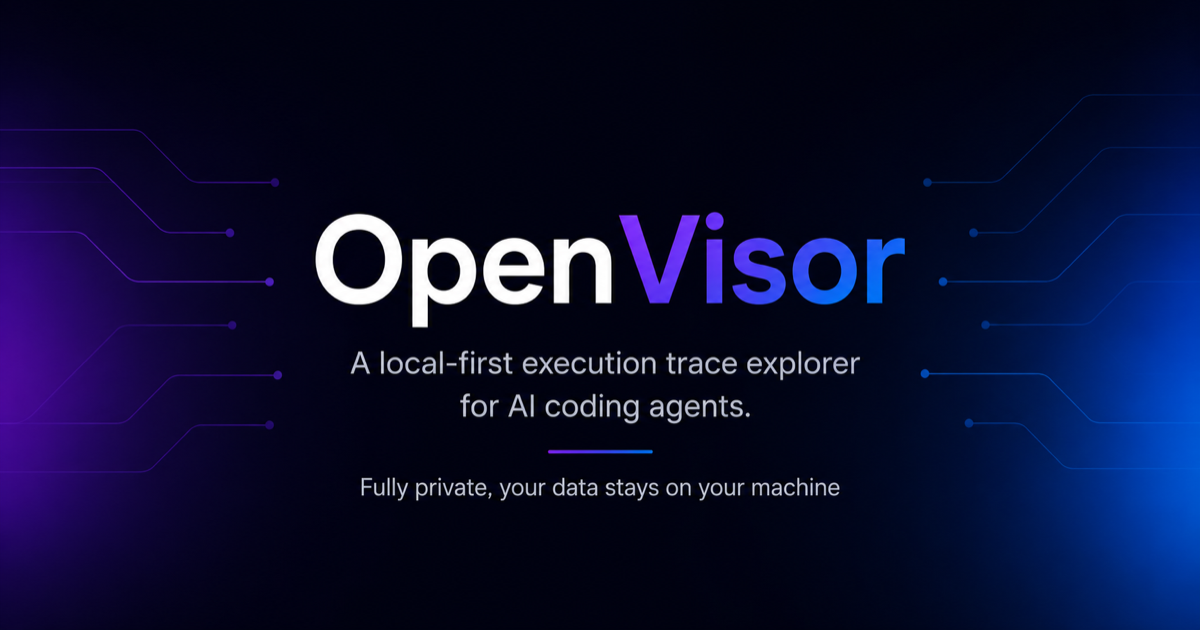
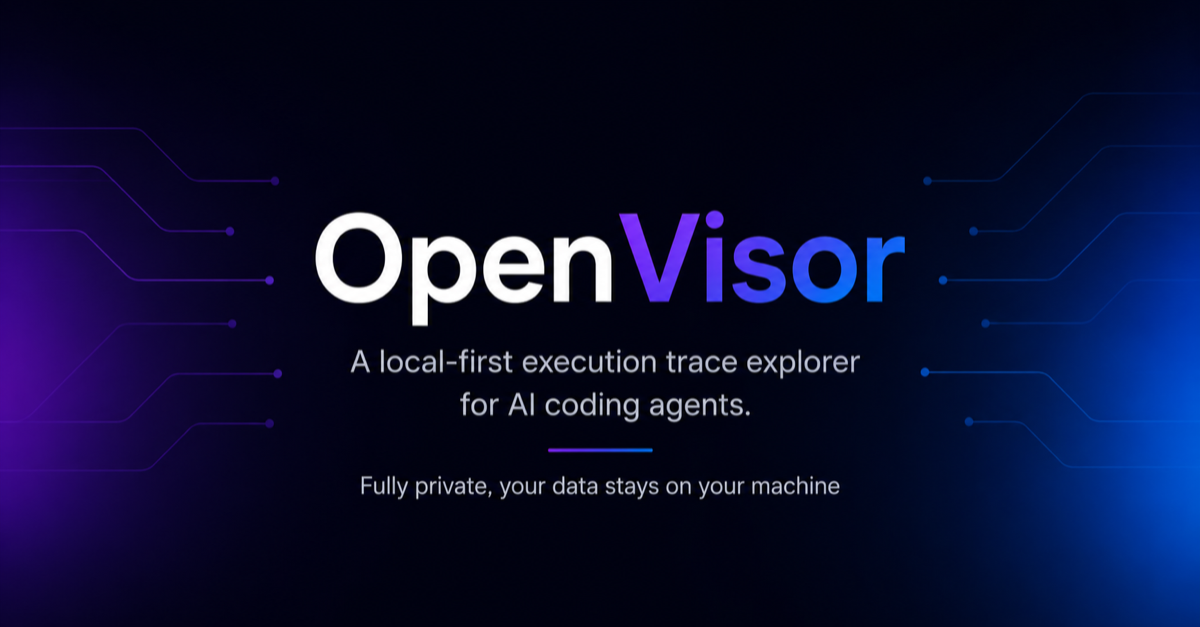
fix: resize OG image to LinkedIn spec 1200x627 and add image:type

diff --git a/app/src/app/layout.tsx b/app/src/app/layout.tsx
@@ -19,8 +19,9 @@ export const metadata: Metadata = {
       {
         url: "/og-image.png",
         width: 1200,
-        height: 630,
+        height: 627,
         alt: "OpenVisor — OpenCode Session Explorer",
+        type: "image/png",
       },
     ],
   },